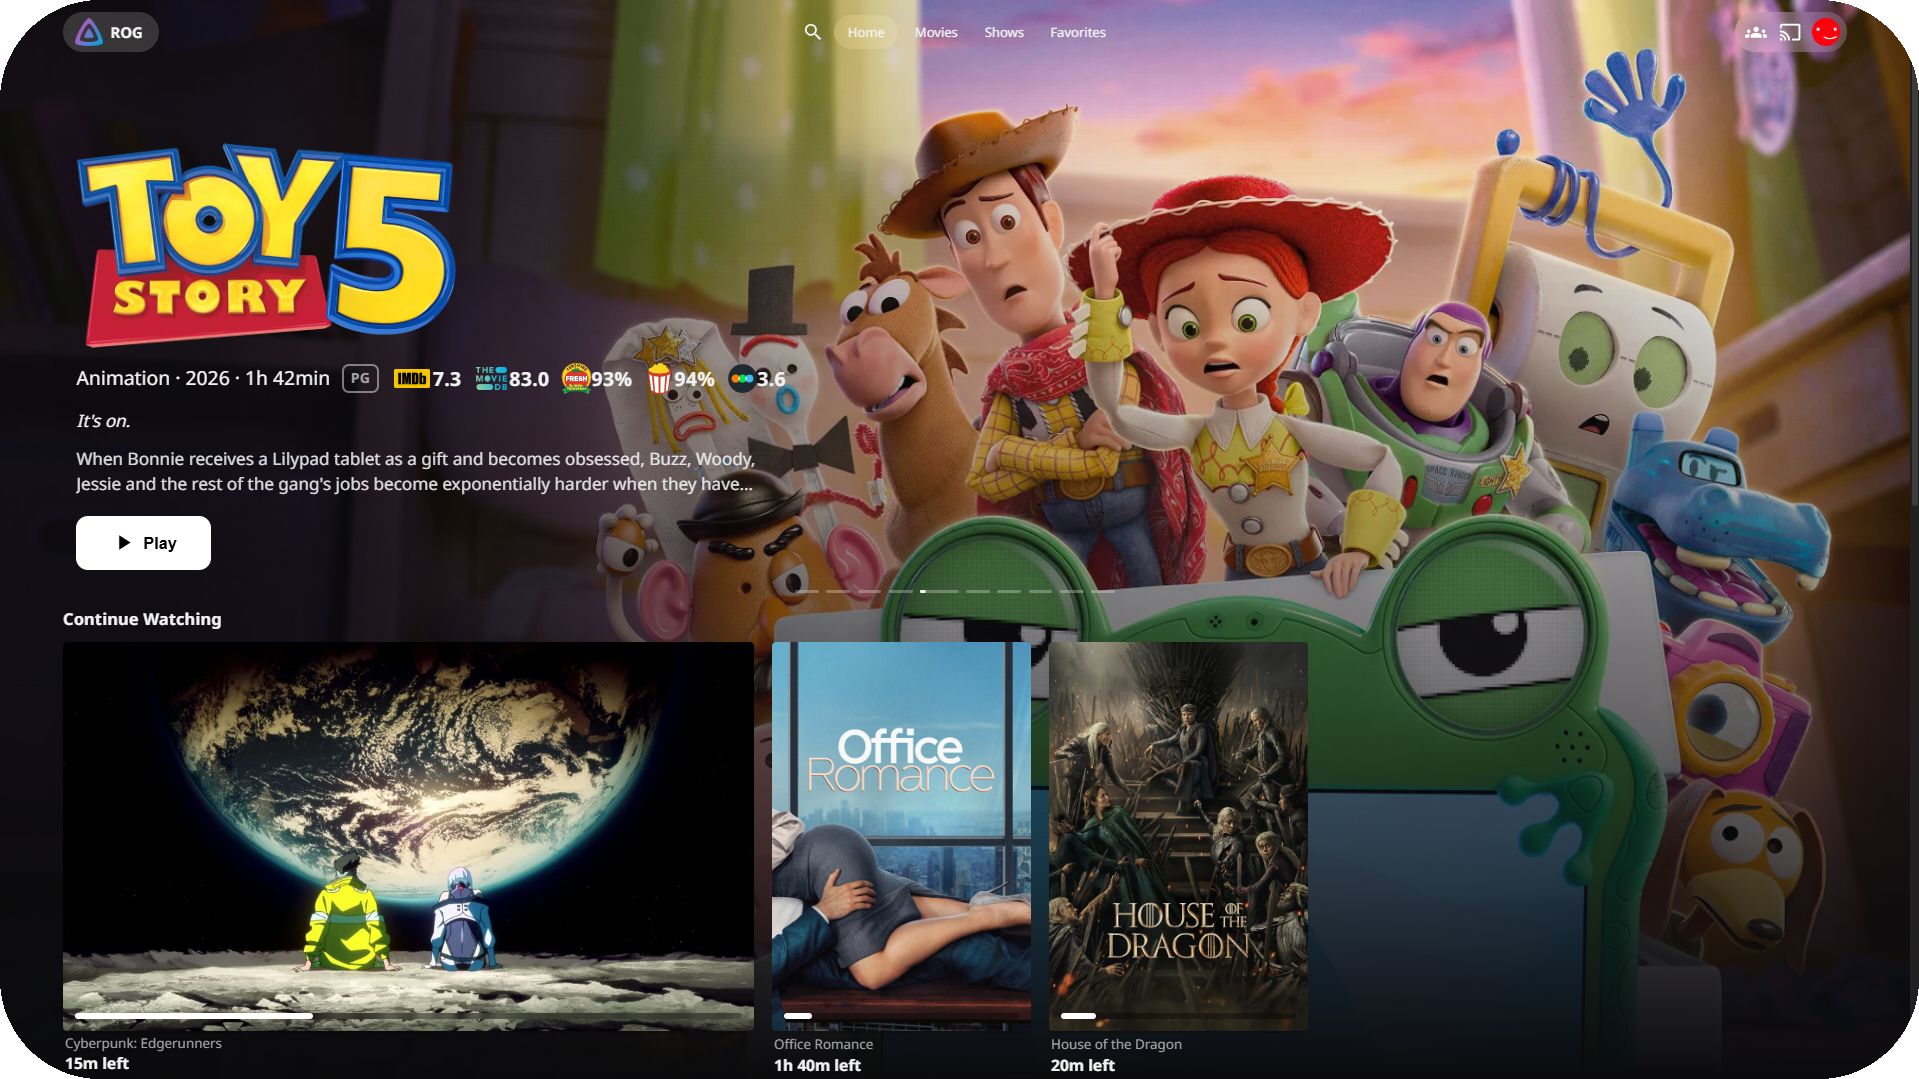
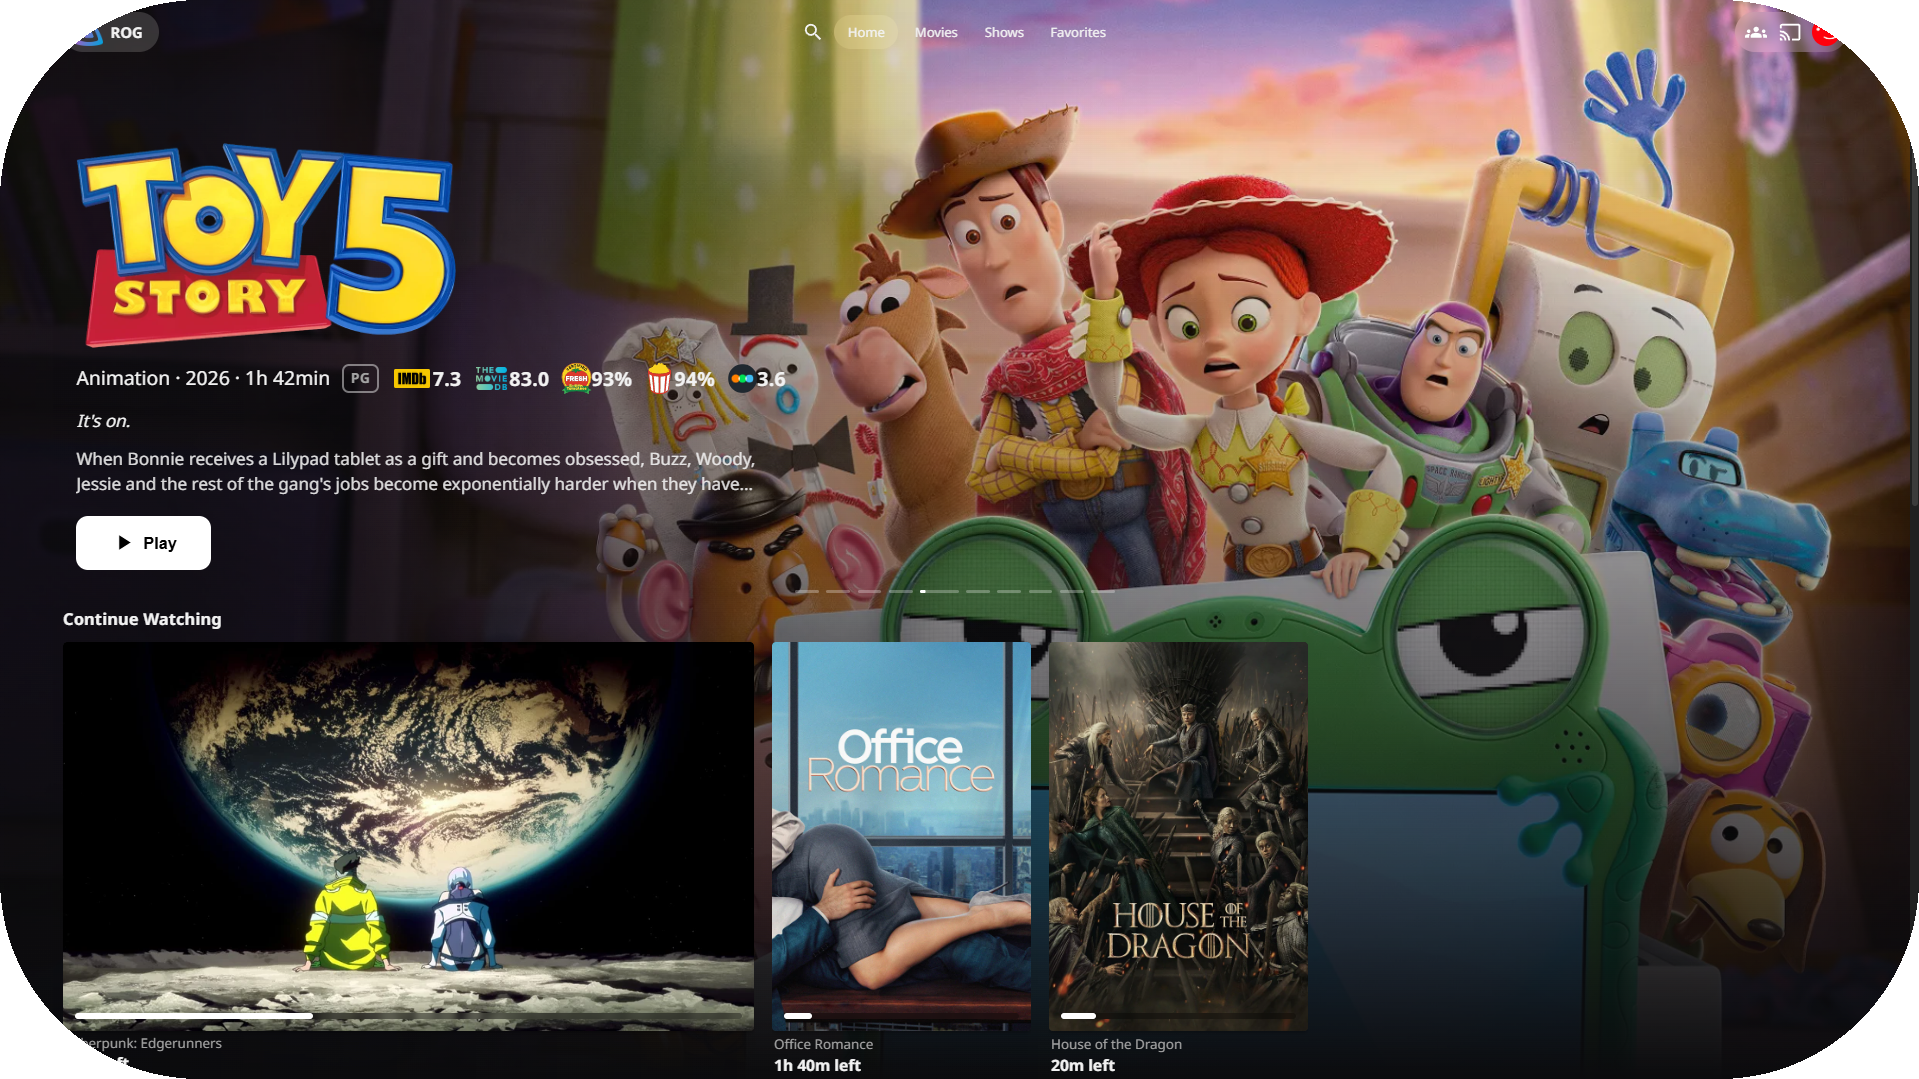
Increase corner radius for hero image to match visual scale

diff --git a/README.md b/README.md
@@ -20,7 +20,7 @@
 ## 📸 Screenshots
 
 <p align="center">
-  <img src="screenshots/Screenshot%202026-09-29%20193628.png?v=3" width="98.5%" alt="Hero Screenshot"/>
+  <img src="screenshots/Screenshot%202026-09-29%20193628.png?v=4" width="98.5%" alt="Hero Screenshot"/>
   <br/>
   <img src="screenshots/Screenshot%202026-09-29%20193501.png?v=3" width="49%" alt="Screenshot 2"/>
   <img src="screenshots/Screenshot%202026-09-29%20193446.png?v=3" width="49%" alt="Screenshot 3"/>
